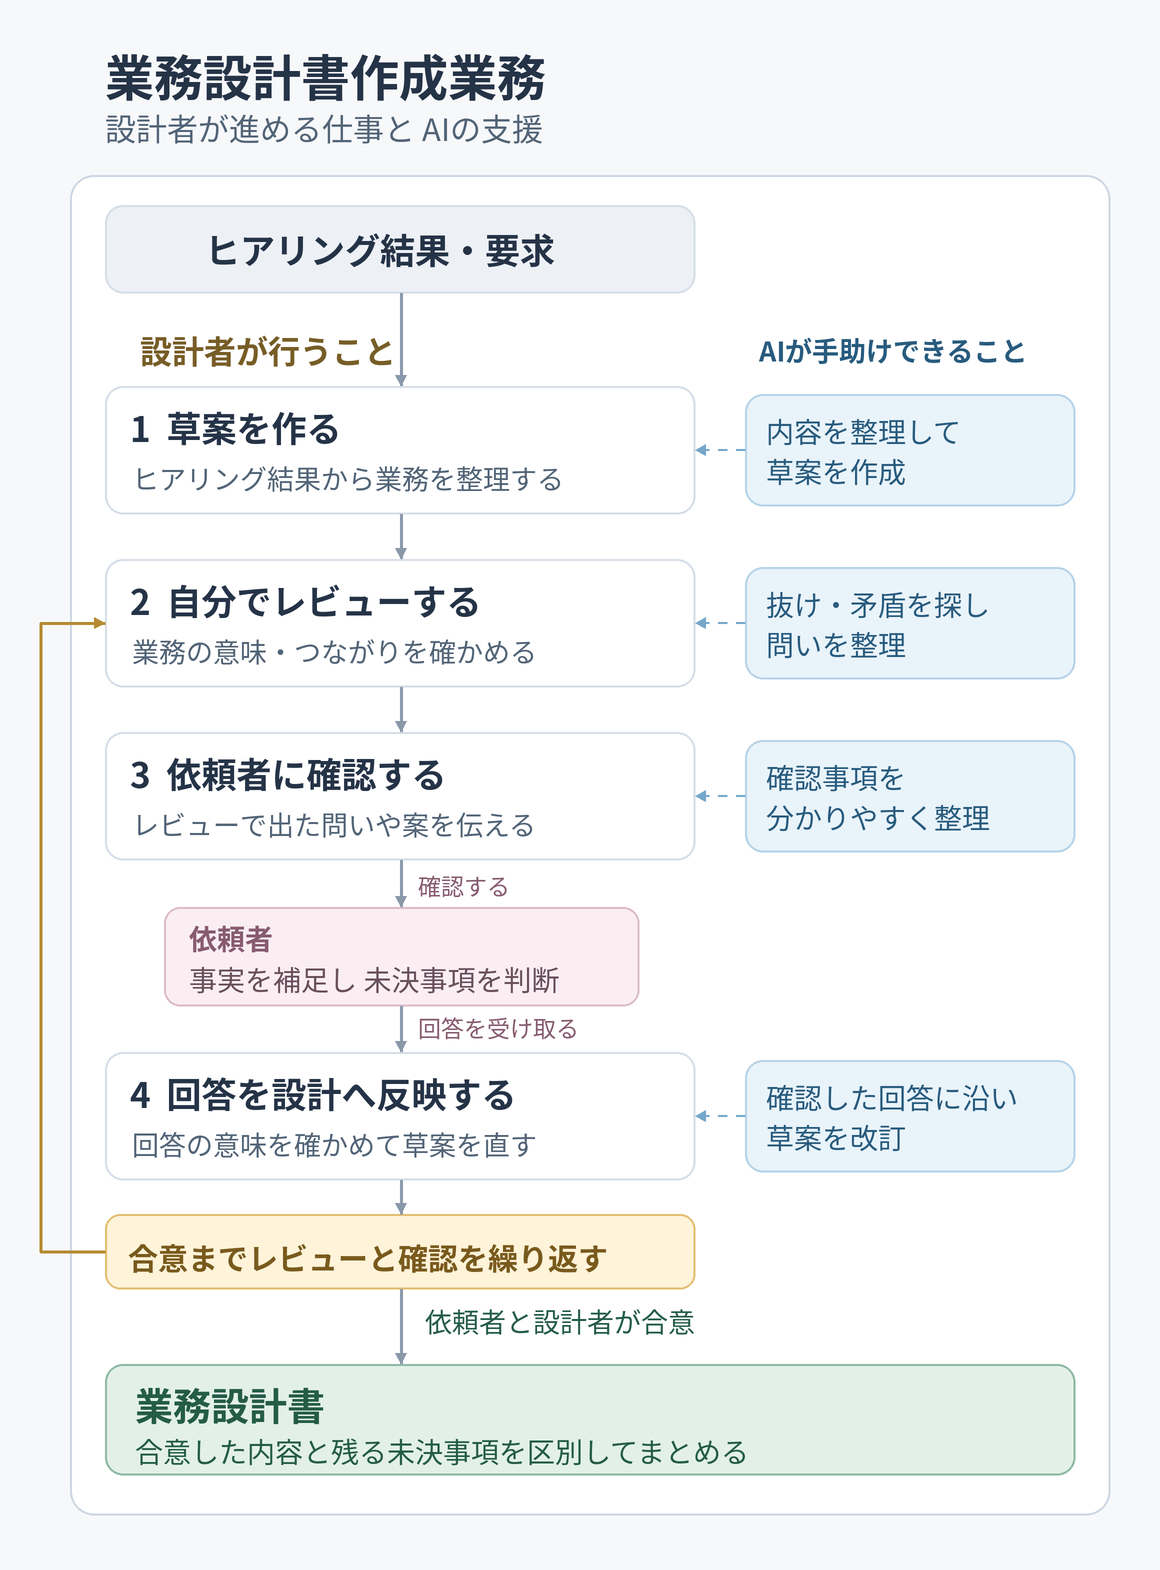
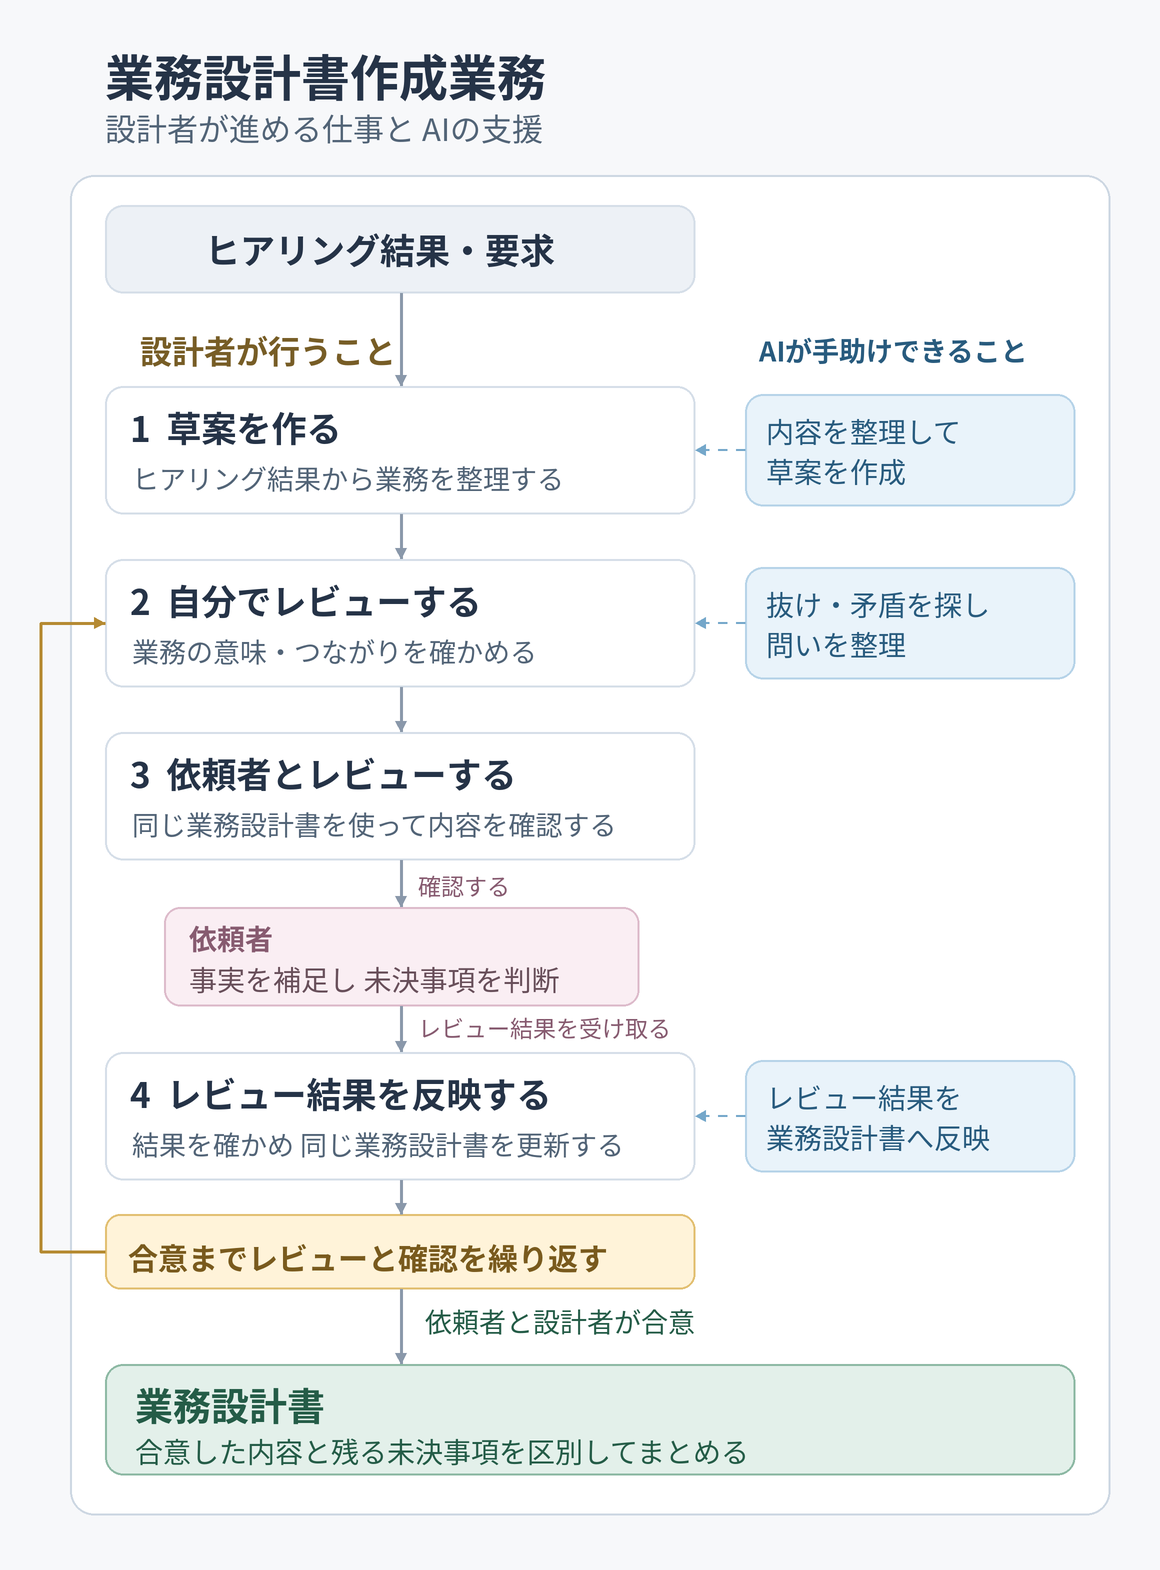
両業務の依頼者レビューで同じ文書を使い重複したAI整理工程を除く

diff --git a/README.ja.md b/README.ja.md
@@ -82,9 +82,9 @@ codex plugin marketplace add mk3008/alder --ref plugin-v0.2.8
 
 Alderは既存業務の分析と新しい業務の仮説に使えます。まず業務設計書を作成し、依頼者と設計者の認識を合わせます。
 
-設計者はヒアリング結果から草案を作り、自分でレビューしたうえで依頼者へ確認します。回答を設計へ反映し、合意までレビューと確認を繰り返します。AIは草案作成、抜けや矛盾の発見、確認事項の整理、回答に沿った改訂を手助けできます。
+設計者はヒアリング結果から草案を作り、自分でレビューしたうえで依頼者へ確認します。回答を設計へ反映し、合意までレビューと確認を繰り返します。AIは草案作成、自己レビュー、確認結果に沿った改訂を手助けできます。
 
-[![業務設計書作成業務。設計者が草案作成、自己レビュー、依頼者確認、回答反映を進め、AIが各作業を支援する。合意まで繰り返して業務設計書をまとめる。](docs/images/business-design-workflow.ja.png)](docs/images/business-design-workflow.ja.png)
+[![業務設計書作成業務。設計者が草案作成、自己レビュー、依頼者とのレビュー、結果の反映を進める。AIは草案・自己レビュー・改訂を支援する。合意まで繰り返して業務設計書をまとめる。](docs/images/business-design-workflow.ja.png)](docs/images/business-design-workflow.ja.png)
 
 <a id="1-草案を作り質問に答える"></a>
 
@@ -113,28 +113,24 @@ docs/business-design/ に草案を作って。
 
 AIの指摘をそのまま仕様にせず、入力事実と照らし合わせてください。設計者が判断できる記述上の問題は直し、責任、条件、例外、保証など依頼者に判断してもらう問いを整理します。
 
-### 3. 依頼者に確認する
+<a id="3-依頼者に確認する"></a>
+
+### 3. 依頼者とレビューする
 
 設計者は**業務設計書を依頼者と一緒に読み**、仕事の理解が合っているかを確かめます。問いに関係する入出力・手順・例外などの箇所を示し、何が未決で、回答によってどこが変わるかを説明してください。依頼者は同じ文書を見ながら事実を補足し、未決事項を判断します。
 
-確認事項の整理をAIに手伝わせる場合は、Alderの業務設計書とレビュー結果を渡して次のように依頼してください。
+<a id="4-回答を設計へ反映する"></a>
+
+### 4. レビュー結果を反映する
+
+設計者は依頼者と確認した結果を、同じ業務設計書へ反映します。レビュー結果と業務設計書をAIへ渡して次のように依頼してください。
 
 ```text
-このAlderの業務設計書とレビュー結果を使い、
-依頼者に確認する問いと理由を、業務設計書の該当箇所に結び付けて整理して。
-```
-
-
-### 4. 回答を設計へ反映する
-
-設計者は依頼者の回答の意味を確かめ、草案を更新します。回答と業務設計書をAIへ渡して次のように依頼してください。
-
-```text
-この回答を反映して、Alder業務設計書を改訂して。
+このレビュー結果を反映して、同じAlder業務設計書を改訂して。
 残る未決事項は分けて残して。
 ```
 
-変更箇所を読み、回答と食い違っていないかを確認してください。
+変更箇所を読み、確認した内容と食い違っていないかを確かめてください。
 
 改訂後は再びレビューと依頼者確認を行います。**依頼者と設計者が合意した版が正本**です。合意した内容と残る未決事項を区別してまとめてください。品質要求のために項目を増やさず、[各項目の役割](docs/business-design-structure.ja.md)に沿って関係する既存項目へ書きます。技術的な実現手段はSystem Designへ分けてください。
 
@@ -142,9 +138,9 @@ AIの指摘をそのまま仕様にせず、入力事実と照らし合わせて
 
 合意した業務設計書から、システムが満たすべき条件と期待結果をチェック項目（Check Item）にします。設計者がAIの草案作成・更新の支援を受け、依頼者と期待結果を確認する業務です。
 
-設計者は草案を作り、自分でレビューしてから依頼者に確認します。AIは草案作成、レビュー、確認事項の整理、回答に沿った更新を支援できます。確認結果と残る未決事項を記録し、確認済みの項目と未確認の候補を区別して引き渡します。
+設計者は草案を作り、自分でレビューしてから依頼者に確認します。AIは草案作成、自己レビュー、確認結果に沿った更新を支援できます。確認結果と残る未決事項を記録し、確認済みの項目と未確認の候補を区別して引き渡します。
 
-[![チェック項目作成業務。設計者が草案作成、自己レビュー、依頼者への説明、回答反映を進め、確認状態を区別して引き渡す。AIは各作業を支援し、業務上の未決事項は業務設計へ戻す。](docs/images/check-item-workflow.ja.png)](docs/images/check-item-workflow.ja.png)
+[![チェック項目作成業務。設計者が草案作成、自己レビュー、依頼者とのレビュー、結果の反映を進め、確認状態を区別して引き渡す。AIは草案・自己レビュー・改訂を支援し、業務上の未決事項は業務設計へ戻す。](docs/images/check-item-workflow.ja.png)](docs/images/check-item-workflow.ja.png)
 
 ### 1. チェック項目の草案を作る
 
@@ -176,15 +172,11 @@ AIの指摘をそのまま仕様にせず、入力事実と照らし合わせて
 
 <a id="2-依頼者に説明する"></a>
 
-### 3. 依頼者に説明する
+<a id="3-依頼者に説明する"></a>
 
-設計者はチェック項目案と確認事項を依頼者へ説明し、条件と期待結果が望む業務に合っているかを確認します。説明の整理は、作成済みのチェック項目を材料にしたAIの補助作業です。次のように依頼してください。
+### 3. 依頼者とレビューする
 
-```text
-このAlderのチェック項目から、依頼者に確認する条件と期待結果を整理して。
-```
-
-設計者は説明を確かめてから伝え、期待結果の意味は依頼者が確認します。
+設計者は**チェック項目リストを依頼者と一緒に読み**、条件と期待結果が望む業務に合っているかを確かめます。このリストも依頼者・設計者・実装を担うAIが共有する文書です。依頼者は各項目を見ながら修正点や未決事項を伝えます。
 
 確認結果は`未レビュー / 要確認 / 確認済み / 要修正`として区別します。**Test成功だけでは業務承認になりません**。Testは書かれた期待値と実装を照合します。その期待値が依頼者の望む業務かを確認するレビューとは別です。
 
@@ -192,17 +184,19 @@ AIの指摘をそのまま仕様にせず、入力事実と照らし合わせて
 
 <a id="3-回答を反映する"></a>
 
-### 4. 回答を反映する
+<a id="4-回答を反映する"></a>
 
-設計者は依頼者の回答を受け、チェック項目を直します。回答・チェック項目と、草案作成で使ったAlderのガイドをAIへ渡して次のように依頼してください。
+### 4. レビュー結果を反映する
+
+設計者は依頼者と確認した結果を、同じチェック項目リストへ反映します。レビュー結果・チェック項目リストと、草案作成で使ったAlderのガイドをAIへ渡して次のように依頼してください。
 
 ```text
 渡したAlderの検査項目の作成・保守ガイド（docs/check-item-traceability.md）に従って、
-この回答をチェック項目に反映して。
+このレビュー結果を同じチェック項目リストに反映して。
 確認できた項目と未決の項目を分けて残して。
 ```
 
-設計者は修正結果が回答に沿っているかを確かめてください。既存のID、業務設計書や既存Testとの対応を保ち、レビュー状態を更新してください。必要な説明・確認・修正を行い、確認できた内容と残る未決事項を記録します。
+設計者は修正結果が確認した内容に沿っているかを確かめてください。既存のID、業務設計書や既存Testとの対応を保ち、レビュー状態を更新してください。必要な説明・確認・修正を行い、確認できた内容と残る未決事項を記録します。
 
 業務の意味・条件・保証が未決だったり変更が必要だったりする項目は、チェック項目だけで決めずに業務設計書へ戻します。設計者が依頼者と設計を再合意してから、影響するチェック項目を更新してください。
 
